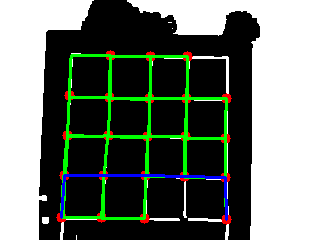
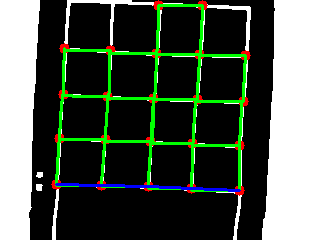
improved auto_alignment

Changed region(s): [[0.0938, 0.0, 0.875, 1.0]]

diff --git a/drone_autopilot.py b/drone_autopilot.py
@@ -24,6 +24,21 @@ def move_if_needed(landingpad):
         return 1
     return 0
 
+def move_over_triangle(coords, offset = 25):
+    x, y = coords
+    ret_x = 0
+    ret_y = 0
+    if x < 160 - offset:
+        ret_x = -1
+    elif x > 160 + offset:
+        ret_x = 1
+    
+    if y < 120 - offset:
+        ret_y = -1
+    elif y > 120 + offset:
+        ret_y = 1
+    return (ret_x, ret_y)
+
 def calculate_angle(p1, p2, p3):
     """
     Calculate the angle at p2 formed by the lines p1->p2 and p2->p3 using the dot product.
@@ -179,28 +194,21 @@ def detect_triangle_shape(image, tolerance = 20):
                              int(right_angle_point[1] + direction_vector[1] * scale))
                 cv2.arrowedLine(image, right_angle_point, end_point, (0, 255, 255), 2, tipLength=0.05)
 
-                dir_x, dir_y = get_direction_vector(right_angle_point, end_point, False)
-                print(dir_x)
-                print(dir_y)
                 dir_x, dir_y = get_direction_vector(right_angle_point, end_point, True)
-                print(dir_x)
-                print(dir_y)
 
                 # bottom right == (-0.7071067811865475, -0.7071067811865475)
                 angle = calculate_angle_between_dir_vectors((-0.7071067811865475, -0.7071067811865475), (dir_x, dir_y))
                 angle_degrees = math.degrees(angle)
 
-                print(angle)
-                print(angle_degrees)
-
-                return angle_degrees
+                return angle_degrees, right_angle_point
     # no triangle found
-    return None
+    return None, None
 
 def take_picture(tello: Tello):
-    latest_number = img_utils.get_latest_picture_number();
-    next_number = latest_number  +1 if latest_number != None else 0
-    filename = f"pics/picture_{next_number:03}.png"
+    #latest_number = img_utils.get_latest_picture_number();
+    #next_number = latest_number  +1 if latest_number != None else 0
+    #filename = f"pics/picture_{next_number:03}.png"
+    filename = "picture.png"
 
     # Take and save the picture
     frame_read = tello.get_frame_read()
@@ -216,7 +224,7 @@ def try_get_triangle_angle(tello: Tello):
     imgp.save_processed_image()
     image = cv2.imread('processed.png')
 
-    angle = detect_triangle_shape(image)
+    angle, loc = detect_triangle_shape(image)
     for i in range(0, 5):
         if angle != None:
             break
@@ -230,9 +238,33 @@ def try_get_triangle_angle(tello: Tello):
         imgp.save_processed_image()
         image = cv2.imread('processed.png')
 
-        angle = detect_triangle_shape(image)
+        angle, loc = detect_triangle_shape(image)
 
     return angle
+
+def try_get_triangle_loc(tello: Tello):
+    take_picture(tello)
+    imgp.save_processed_image()
+    image = cv2.imread('processed.png')
+
+    angle, loc = detect_triangle_shape(image)
+    for i in range(0, 5):
+        if loc != None:
+            break
+
+        if i % 2:
+            tello.move_down(20)
+        else:
+            tello.move_up(20)
+
+        take_picture(tello)
+        imgp.save_processed_image()
+        image = cv2.imread('processed.png')
+
+        angle, loc = detect_triangle_shape(image)
+
+    return loc
+        
 
 def drone_autopilot_takeoff(tello: Tello):
     tello.takeoff()
@@ -254,12 +286,34 @@ def drone_autopilot_take_pictures():
     return
 
 def align_drone_correctly(tello: Tello):
-    for i in range(0, 3):
+    for i in range(0, 8):
+        loc = try_get_triangle_loc(tello)
+        x, y = move_over_triangle(loc, 30)
+
+        amount = 20
+
+        if x == 1:
+            tello.move_back(amount)
+        elif x == -1:
+            tello.move_forward(amount)
+        elif y == 1:
+            tello.move_left(amount)
+        elif y == -1:
+            tello.move_right(amount)
+        else:
+            break
+
+        #key = cv2.waitKey(0)
+        #if key & 0xFF == ord('x'):
+        #    tello.land()
+        #    return False
+
+    for i in range(0, 8):
         angle = try_get_triangle_angle(tello)
         if angle == None:
             return False # no triangle found (manual control required?)
         
-        if 1 > angle > -1: # angle small enough
+        if 2 > angle > -2: # angle small enough
             return True
         
         if angle > 0:
@@ -267,7 +321,7 @@ def align_drone_correctly(tello: Tello):
         else:
             tello.rotate_counter_clockwise(int(abs(angle)))
 
-        if 1 > angle > -1:
+        if 2 > angle > -2:
             return True
 
     return False # failed to align => manual control
@@ -276,21 +330,22 @@ def autopilot(tello: Tello):
     #tello.takeoff()
     #tello.streamon()
 
-    rotate = autopilot.align_drone_correctly(tello)
+    rotate = align_drone_correctly(tello)
     print(rotate)
     if rotate == False:
         return None
 
-    tello.move_up(70)
-    key2 = cv2.waitKey(0)
-    if key2 & 0xFF == ord('x'):
-        tello.land()
-        return None
-    tello.move_right(85)
-    take_picture()
+    tello.move_up(50)
+    #key2 = cv2.waitKey(0)
+    #if key2 & 0xFF == ord('x'):
+    #    tello.land()
+    #    return None
+    tello.move_left(70)
+    take_picture(tello)
     time.sleep(0.1)
     processed_image = imgp.display_picture()
     cv2.imwrite("processed.png", processed_image)
+    cv2.imwrite("grid.png", processed_image)
 
     '''
     result_image = int_finder.find_path(False,True)
@@ -301,7 +356,29 @@ def autopilot(tello: Tello):
     path = int_finder.find_path(False, False)
     # check if valid path
 
-    tello.move_left(85)
+    tello.move_right(70)
+
+    for i in range(0, 8):
+        loc = try_get_triangle_loc(tello)
+        x, y = move_over_triangle(loc, 20)
+
+        amount = 20
+
+        if x == 1:
+            tello.move_back(amount)
+        elif x == -1:
+            tello.move_forward(amount)
+        elif y == 1:
+            tello.move_left(amount)
+        elif y == -1:
+            tello.move_right(amount)
+        else:
+            break
+
+        #key = cv2.waitKey(0)
+        #if key & 0xFF == ord('x'):
+        #    tello.land()
+        #    return False
 
     json_str = json.dumps(path)
     return json_str

diff --git a/drone_controller.py b/drone_controller.py
@@ -77,9 +77,10 @@ def display_tello_info_window(info):
     cv2.imshow("Tello-drone Info", info_image)
 
 def take_picture():
-    latest_number = img_utils.get_latest_picture_number();
-    next_number = latest_number  +1 if latest_number != None else 0
-    filename = f"pics/picture_{next_number:03}.png"
+    #latest_number = img_utils.get_latest_picture_number();
+    #next_number = latest_number  +1 if latest_number != None else 0
+    #filename = f"pics/picture_{next_number:03}.png"
+    filename = "picture.png"
 
     # Take and save the picture
     frame_read = tello.get_frame_read()
@@ -126,7 +127,10 @@ def take_grid_picture():
     # => if not ok, realign + new picture
 
 def drone_get_path():
-    return autopilot.autopilot(tello)
+    tello.takeoff()
+    path = autopilot.autopilot(tello)
+    tello.land()
+    return path
 
 while True:
     tello_info = fetch_tello_info_window_data()
@@ -149,29 +153,7 @@ while True:
     elif key & 0xFF == ord('p'):
         take_picture()
     elif key & 0xFF == ord('m'):
-        rotate = autopilot.align_drone_correctly(tello)
-        print(rotate)
-        if rotate == False:
-            continue
-
-        tello.move_up(70)
-        key2 = cv2.waitKey(0)
-        if key2 & 0xFF == ord('x'):
-            tello.land()
-            break
-        tello.move_right(85)
-        take_picture()
-        time.sleep(0.1)
-        processed_image = imgp.display_picture()
-        cv2.imwrite("processed.png", processed_image)
-
-        result_image = int_finder.find_path(False,True)
-        #if result_image != None:
-        cv2.imshow("Intersections and Paths", result_image)
-        cv2.imwrite("intersections_and_paths.png", result_image)
-        #print(path)
-
-        tello.move_left(85)
+        print(drone_get_path())
     elif key & 0xFF == ord('o'):
         take_picture()
         time.sleep(0.1)

diff --git a/intersection_finder.py b/intersection_finder.py
@@ -8,7 +8,7 @@ import os
 import json
 
 # Define a function to normalize coordinates to fit a 5x5 grid
-def normalize_coordinates(coordinates, grid_size=5, error_corection = 5):
+def normalize_coordinates(coordinates, grid_size=5, error_corection = 25):
     max_x = 0
     max_y = 0
     min_y = 270
@@ -124,7 +124,7 @@ def a_star_path(binary_image, start, end, intersections, directional_weight=(1, 
 
 
 def find_path(oldPathfinder = False, Debugger = False):
-    image_path = os.path.dirname(__file__) + "/processed.png"
+    image_path = os.path.dirname(__file__) + "/grid.png"
     intersections, result_image, binary = find_grid_intersections(
         image_path, min_pixels=5, border_margin=5, max_density=0.3, vicinity_size=15, min_distance=10
     )
@@ -174,7 +174,7 @@ def find_path(oldPathfinder = False, Debugger = False):
             for j in range(5):
                 print(f"Node ({i},{j}) is connected to: {matrix2[i][j]}")
 
-    path = pf2.find_path(matrix2, [4, 4], [0, 4], True)
+    path = pf2.find_path(matrix2, [0, 4], [4, 4], True)
     if Debugger:
         if path != None:
             for i in range(len(path) - 1):
@@ -189,8 +189,8 @@ def find_path(oldPathfinder = False, Debugger = False):
                 # Draw a line between these two points in blue (BGR color: (255, 0, 0)).
                 cv2.line(result_image, start_pixel, end_pixel, (255, 0, 0), thickness=2)
 
-        path.append([5,0])
-        path.insert(0, [4,5])
+        #path.append([5,0])
+        #path.insert(0, [4,5])
         return result_image
     else:
         if path != None:
@@ -199,7 +199,6 @@ def find_path(oldPathfinder = False, Debugger = False):
             return pf.get_directions(path)
         else:
             return []
-
 
 if __name__ == "__main__":
     path = find_path(False,False)

diff --git a/image_processing.py b/image_processing.py
@@ -12,7 +12,7 @@ def save_processed_image():
     cv2.imwrite("processed.png", image)
 
 cv2.namedWindow("Before and After")
-cv2.createTrackbar("Threshold", "Before and After", 25, 255, nothing)
+#cv2.createTrackbar("Threshold", "Before and After", 25, 255, nothing)
 
 min_area = 100
 max_area = 800
@@ -22,21 +22,22 @@ cv2.createTrackbar("Min Area", "Before and After", min_area, 6000, nothing)
 cv2.createTrackbar("Max Area", "Before and After", max_area, 6000, nothing)
 
 def display_picture():
-    latest_number = img_utils.get_latest_picture_number()
-    if latest_number == None:
-        return None
-    latest_filename = f"pics/picture_{latest_number:03}.png"
+    #latest_number = img_utils.get_latest_picture_number()
+    #if latest_number == None:
+    #    return None
+    #latest_filename = f"pics/picture_{latest_number:03}.png"
+    filename = "picture.png"
 
     # Read the latest image
-    original_image = cv2.imread(latest_filename, cv2.IMREAD_GRAYSCALE)
+    original_image = cv2.imread(filename, cv2.IMREAD_GRAYSCALE)
 
     # If the image was loaded successfully
     if original_image is None:
-        print(f"Failed to load {latest_filename}.")
+        print(f"Failed to load {filename}.")
         return None
 
     # Get the threshold value from trackbar
-    threshold_value = cv2.getTrackbarPos("Threshold", "Before and After")
+    threshold_value = 59 # cv2.getTrackbarPos("Threshold", "Before and After")
 
     # Apply thresholding to create a binary inverse image
     _, processed_image = cv2.threshold(original_image, threshold_value, 255, cv2.THRESH_BINARY_INV)
